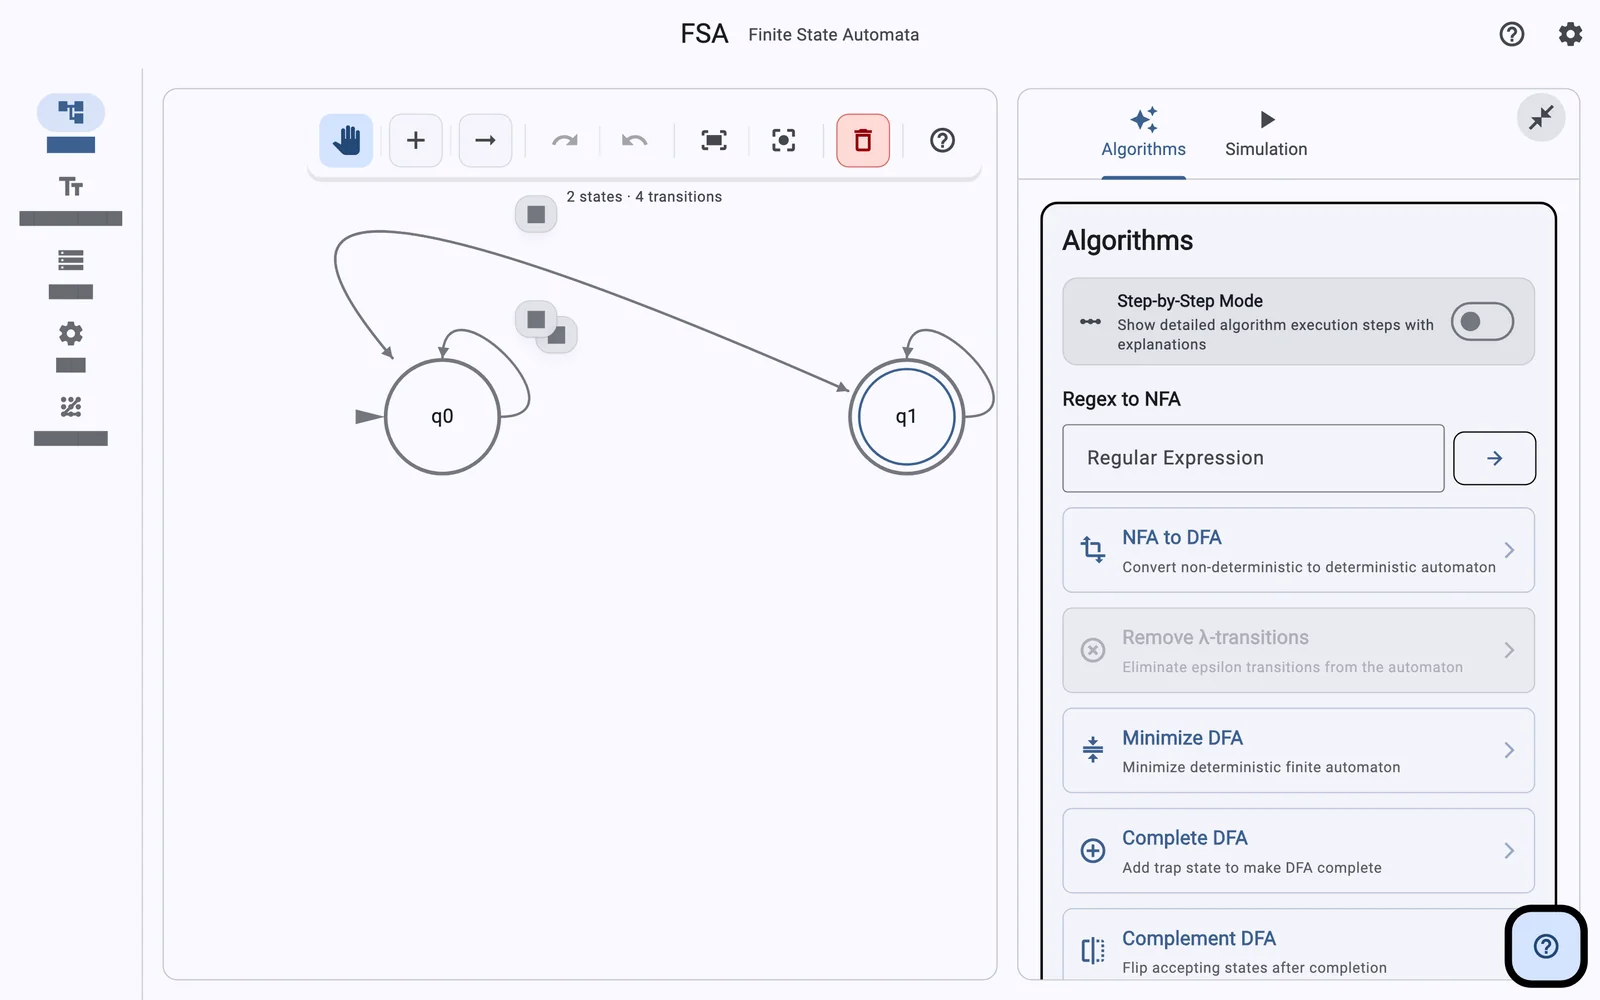
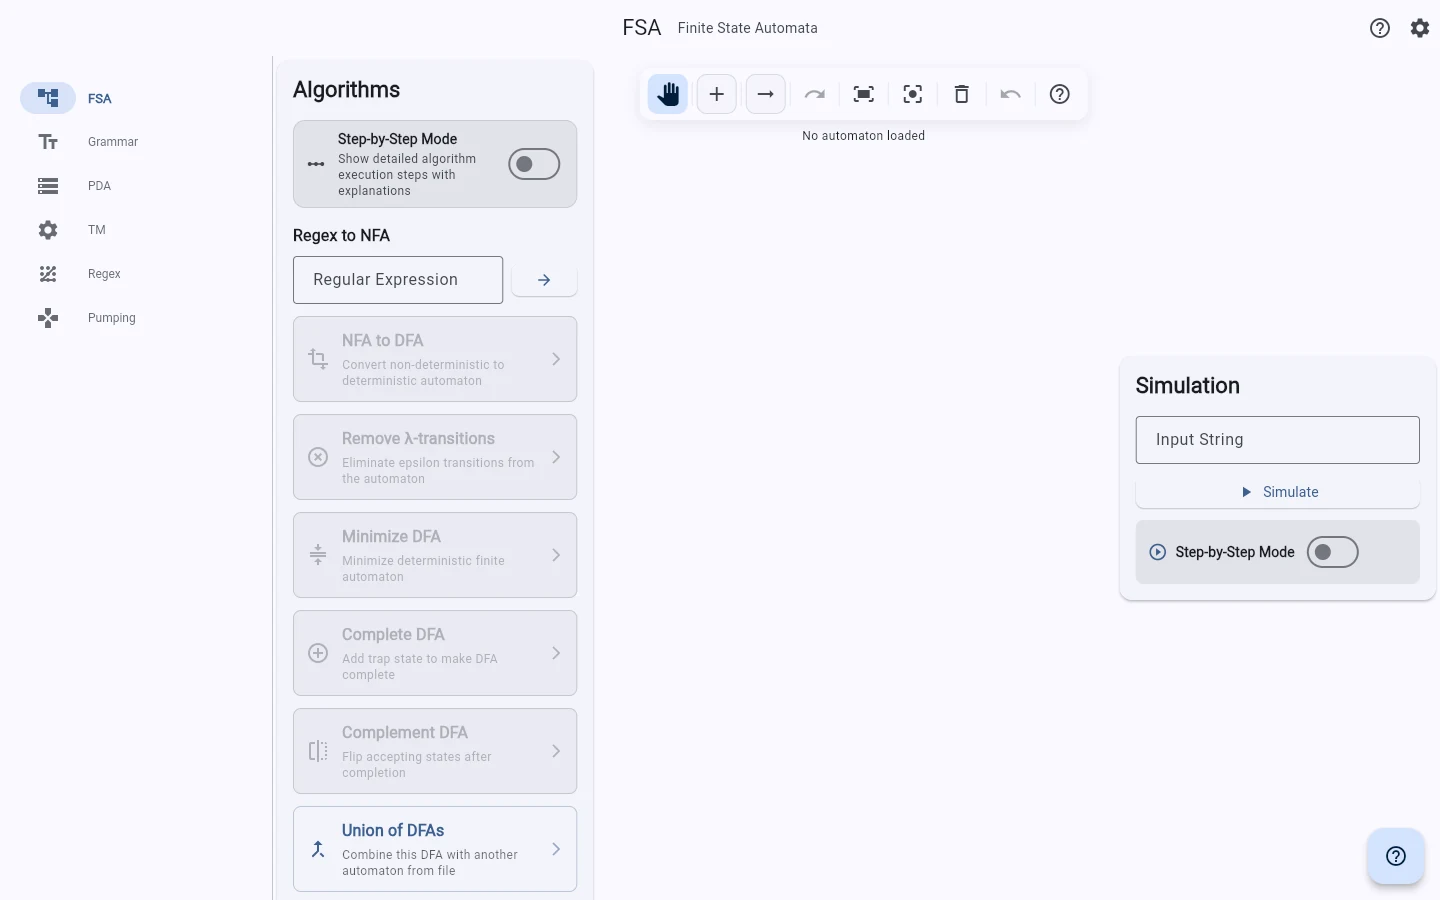
web: address landing page review

diff --git a/test/website/site_contract_test.dart b/test/website/site_contract_test.dart
@@ -9,11 +9,15 @@ void main() {
   late String index;
   late String support;
   late String privacy;
+  late String stylesheet;
 
   setUpAll(() {
     index = File('${docsDirectory.path}/index.html').readAsStringSync();
     support = File('${docsDirectory.path}/support.html').readAsStringSync();
     privacy = File('${docsDirectory.path}/privacy.html').readAsStringSync();
+    stylesheet = File(
+      '${docsDirectory.path}/assets/site.css',
+    ).readAsStringSync();
   });
 
   test('publishes the approved technical scope and platform maturity', () {
@@ -40,15 +44,24 @@ void main() {
       expect(index, contains(workspace), reason: 'Missing $workspace');
     }
 
-    for (final platform in <String>[
-      'iOS and iPadOS',
-      'macOS',
-      'Android',
-      'Web',
-      'Windows',
-      'Linux',
-    ]) {
-      expect(index, contains(platform), reason: 'Missing $platform');
+    for (final entry in <String, String>{
+      'iOS and iPadOS': 'Testing',
+      'macOS': 'Testing',
+      'Android': 'Testing',
+      'Web': 'Experimental',
+      'Windows': 'Experimental',
+      'Linux': 'Experimental',
+    }.entries) {
+      final statusClass = entry.value.toLowerCase();
+      expect(
+        index,
+        contains(
+          '<tr><th scope="row">${entry.key}</th><td>'
+          '<span class="status status-$statusClass">${entry.value}</span>'
+          '</td></tr>',
+        ),
+        reason: 'Incorrect status for ${entry.key}',
+      );
     }
 
     expect(
@@ -71,8 +84,44 @@ void main() {
     expect(
       index,
       contains(
+        '<title>Turing Lab | Formal Language and Automata Toolkit</title>',
+      ),
+    );
+    expect(
+      index,
+      contains(
+        '<meta name="description" content="Technical overview of Turing Lab, '
+        'a Flutter toolkit for formal languages, automata construction, '
+        'transformations, and simulation.">',
+      ),
+    );
+    expect(
+      index,
+      contains(
         '<link rel="canonical" '
         'href="https://thalesmms.github.io/Turing-Lab/">',
+      ),
+    );
+    expect(
+      index,
+      contains(
+        '<meta property="og:title" '
+        'content="Turing Lab | Formal Language and Automata Toolkit">',
+      ),
+    );
+    expect(
+      index,
+      contains(
+        '<meta property="og:description" content="A Flutter-based toolkit '
+        'for constructing, transforming, and simulating formal language '
+        'models.">',
+      ),
+    );
+    expect(
+      index,
+      contains(
+        '<meta property="og:url" '
+        'content="https://thalesmms.github.io/Turing-Lab/">',
       ),
     );
     expect(
@@ -83,6 +132,19 @@ void main() {
         'assets/social-preview.png">',
       ),
     );
+    expect(
+      index,
+      contains(
+        '<link rel="icon" type="image/png" href="assets/favicon.png">',
+      ),
+    );
+    expect(
+      index,
+      contains('<link rel="stylesheet" href="assets/site.css">'),
+    );
+    expect(index, contains('<a href="#overview">Overview</a>'));
+    expect(stylesheet, contains('--focus: #0070c0;'));
+    expect(stylesheet, contains('--focus: #efb83f;'));
     expect(
       index,
       contains(

diff --git a/docs/index.html b/docs/index.html
@@ -30,6 +30,7 @@
         <span>Turing Lab</span>
       </a>
       <nav class="site-navigation" aria-label="Primary navigation">
+        <a href="#overview">Overview</a>
         <a href="#capabilities">Capabilities</a>
         <a href="#formats">Formats</a>
         <a href="#platforms">Platforms</a>
@@ -56,8 +57,8 @@
           </div>
         </div>
         <figure class="overview-figure">
-          <img src="assets/screenshots/fsa.webp" alt="Finite-state automata workspace with an editable canvas and algorithm panel" width="1600" height="1000">
-          <figcaption>Finite-state automata workspace on macOS.</figcaption>
+          <img src="assets/screenshots/fsa.webp" alt="Finite-state automata workspace with an editable canvas and algorithm panel" width="1440" height="900">
+          <figcaption>Finite-state automata workspace.</figcaption>
         </figure>
       </div>
     </section>
@@ -205,19 +206,19 @@
         <div class="section-heading">
           <p class="section-index">04 / Interface</p>
           <h2 id="screenshots-title">Application workspaces</h2>
-          <p>Captured from the controlled macOS testing configuration.</p>
+          <p>Captured from a controlled desktop testing configuration.</p>
         </div>
         <div class="screenshot-grid">
           <figure>
-            <img src="assets/screenshots/fsa.webp" alt="Finite-state automata editor showing the canvas and available algorithms" width="1600" height="1000" loading="lazy">
+            <img src="assets/screenshots/fsa.webp" alt="Finite-state automata editor showing the canvas and available algorithms" width="1440" height="900" loading="lazy">
             <figcaption><strong>Finite-state automata.</strong> Canvas editing, algorithms, and simulation are available in the same workspace.</figcaption>
           </figure>
           <figure>
-            <img src="assets/screenshots/grammar.webp" alt="Context-free grammar editor with productions and analysis controls" width="1600" height="1000" loading="lazy">
+            <img src="assets/screenshots/grammar.webp" alt="Context-free grammar editor with productions and analysis controls" width="1440" height="900" loading="lazy">
             <figcaption><strong>Context-free grammars.</strong> Production editing, parsing, diagnostics, and conversions.</figcaption>
           </figure>
           <figure>
-            <img src="assets/screenshots/tm.webp" alt="Turing machine workspace with state canvas and tape simulation controls" width="1600" height="1000" loading="lazy">
+            <img src="assets/screenshots/tm.webp" alt="Turing machine workspace with state canvas and tape simulation controls" width="1440" height="900" loading="lazy">
             <figcaption><strong>Turing machines.</strong> Transition editing and tape-based execution traces.</figcaption>
           </figure>
         </div>

diff --git a/docs/assets/site.css b/docs/assets/site.css
@@ -10,7 +10,7 @@
   --accent-strong: #164c69;
   --cyan: #9dd7e5;
   --border: #ccd8df;
-  --focus: #efb83f;
+  --focus: #0070c0;
   --testing-bg: #d9eef5;
   --testing-text: #164c69;
   --experimental-bg: #e4e9ed;
@@ -29,6 +29,7 @@
     --accent: #8dcde0;
     --accent-strong: #b5e1ec;
     --border: #33434e;
+    --focus: #efb83f;
     --testing-bg: #173b4a;
     --testing-text: #b8e6f1;
     --experimental-bg: #283640;
